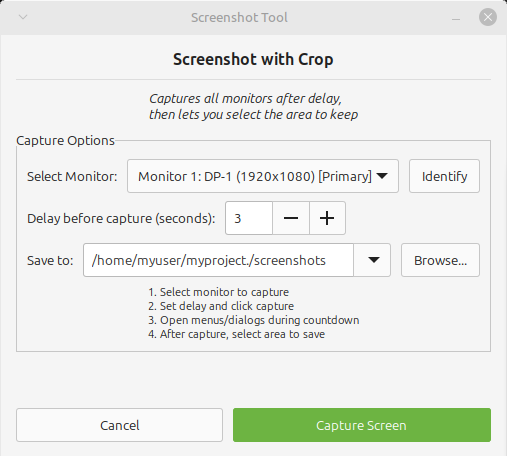
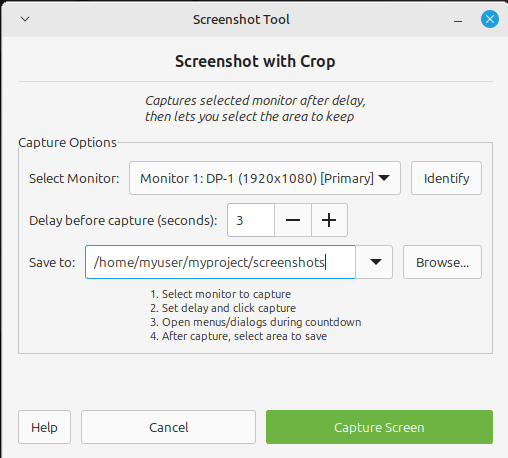
Fix info label text and update screenshot
- Changed 'Captures all monitors' to 'Captures selected monitor'
- Updated screenshot.png to reflect the corrected text
- Accurately represents the single monitor capture functionality
- Improves user clarity about what the tool does

diff --git a/screenshot-crop.py b/screenshot-crop.py
@@ -47,7 +47,7 @@ class ScreenshotCropTool(Gtk.Window):
         # Info label
         info_label = Gtk.Label()
         info_label.set_markup(
-            "<i>Captures all monitors after delay,\n"
+            "<i>Captures selected monitor after delay,\n"
             "then lets you select the area to keep</i>"
         )
         vbox.pack_start(info_label, False, False, 0)
